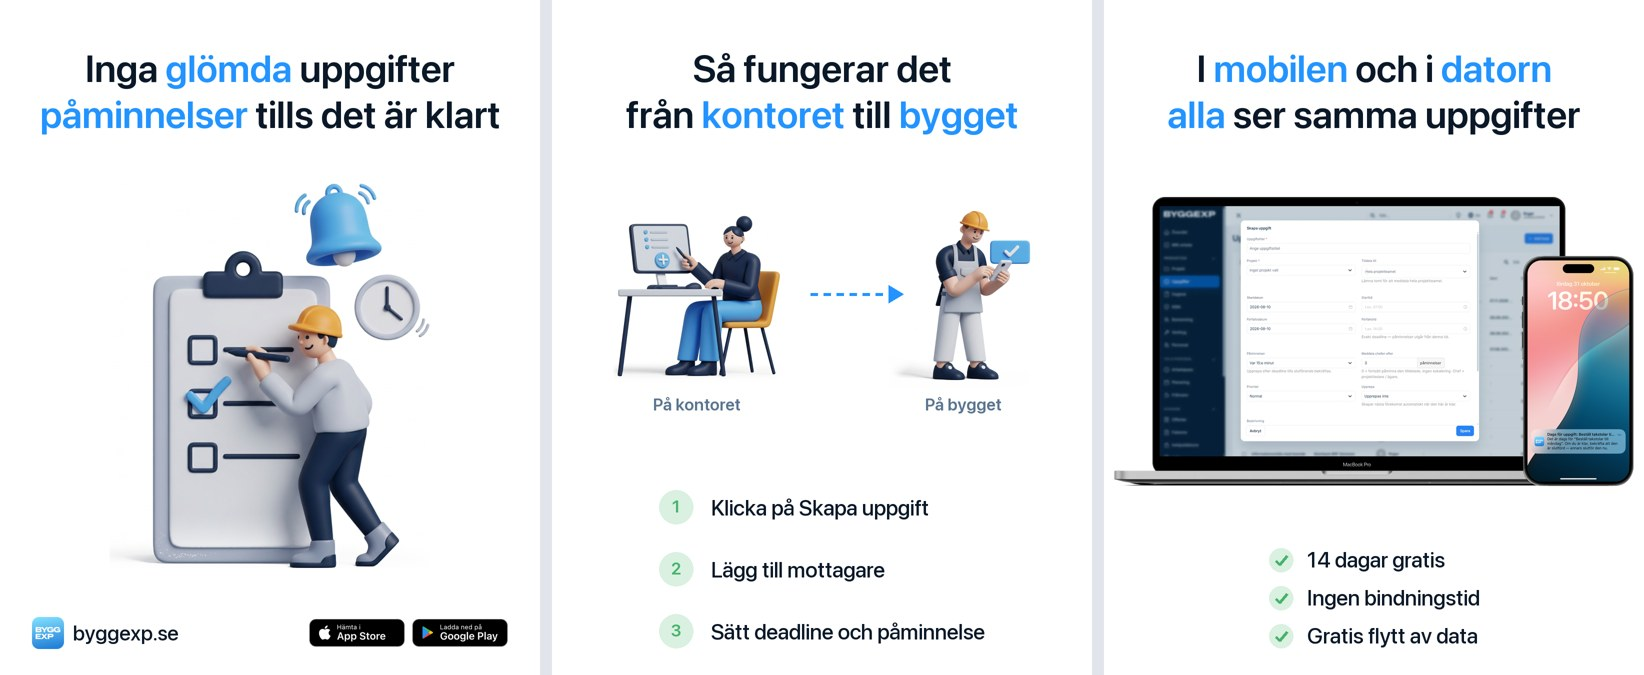
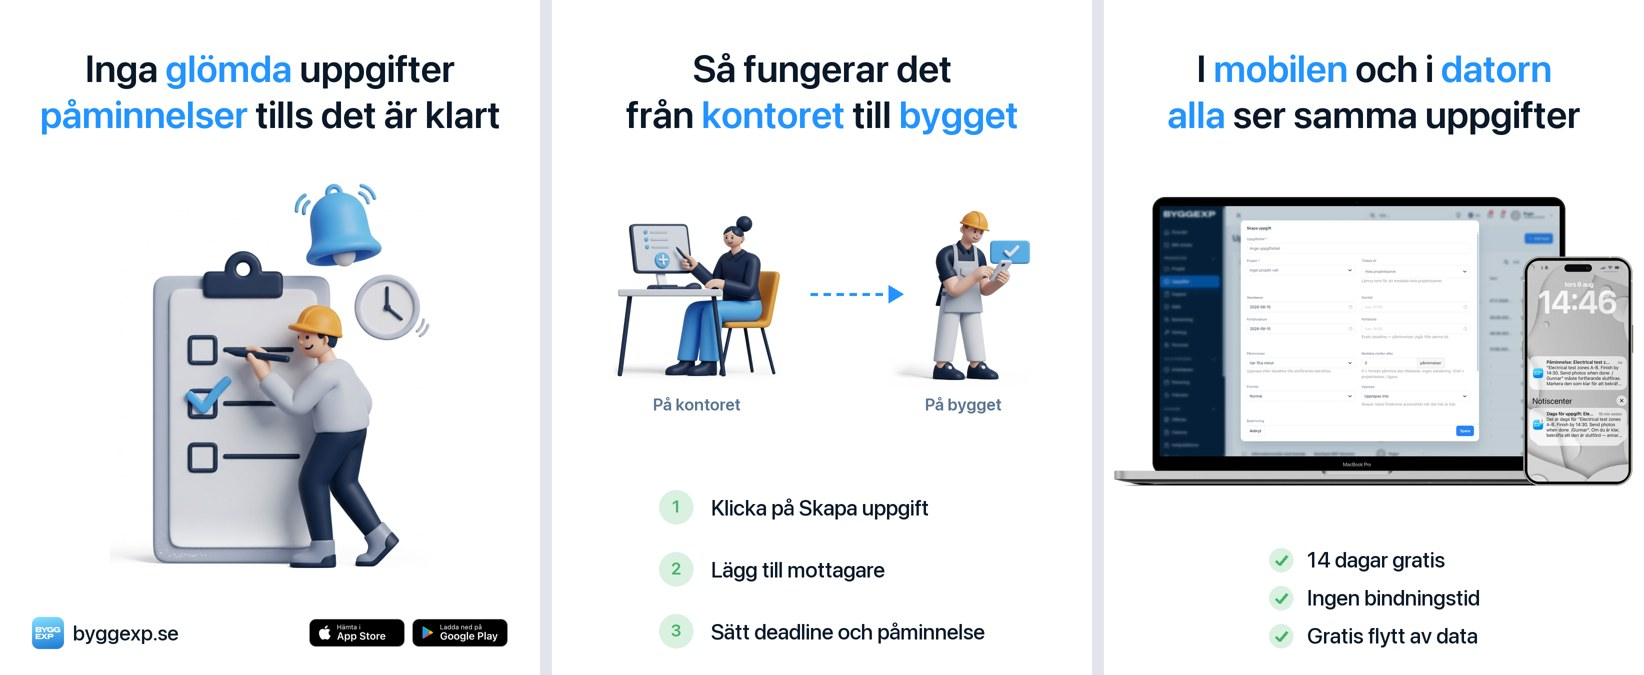
feat(smm): mockups first from the homepage features (S30)
Claude-Session: https://claude.ai/code/session_015ffAXEftTHPL4eNP1AivUn

Changed region(s): [[0.8996, 0.3733, 1.0, 0.7156]]

diff --git a/design-assets/social/posts/make_3d.py b/design-assets/social/posts/make_3d.py
@@ -340,8 +340,7 @@ FEATURE = {  # last slide: the site's laptop + phone picture; the old phone is c
     # id: (site picture, new screen, phone box on the site picture: x, y_top, height)
     "01-tid": (ROOT / "public/landing/features/1arbetspass.webp",
                APP_SHOTS / "03-arbetspass-manuell-topp.png", (1893, 268, 1044)),
-    "s02-uppgifter": (ROOT / "public/landing/features/2uppgift.webp",
-                      APP_SHOTS / "07-paminnelse-lasskarm.png", (1893, 268, 1044)),  # Swedish push
+    "s02-uppgifter": (ROOT / "public/landing/features/2uppgift.webp", None, None),  # S30: the site mockup as is
     "s03-live": (ROOT / "public/landing/features/3personal.webp", None, None),
 }
 

diff --git a/design-assets/social/DESIGN-SYSTEM-SMM.md b/design-assets/social/DESIGN-SYSTEM-SMM.md
@@ -90,6 +90,8 @@
 
 **S29 · 2026-10-31 · ÄTA не показываем нигде.** Владелец: «ÄTA забудь вообще». Ни в постах, ни в каруселях, ни в текстах, ни в будущих сериях. В «первых 10» пост ÄTA заменён на «Offert med din logga». Уже опубликованные старые посты не трогаем.
 
+**S30 · 2026-10-31 · Мокапы для постов — в первую очередь с главной byggexp.se.** Если в посте нужен мокап (ноутбук + телефон), сначала берём мокап этой функции из карусели фич на главной (`public/landing/features/<n>.webp` — те же картинки, что в блоке функций на byggexp.se/sv). Свои скриншоты/замену телефона — только когда владелец сам попросил (пост 1: телефон с новой неделей). Почему: владелец: «мокапы бери в первую очередь те, что на главной у фич».
+
 **S7 · Текст.** Шведский, без кириллицы; только факты из `docs/seo/product-facts-verified.md`; ссылки с UTM.
 
 ## Чек-лист перед показом
